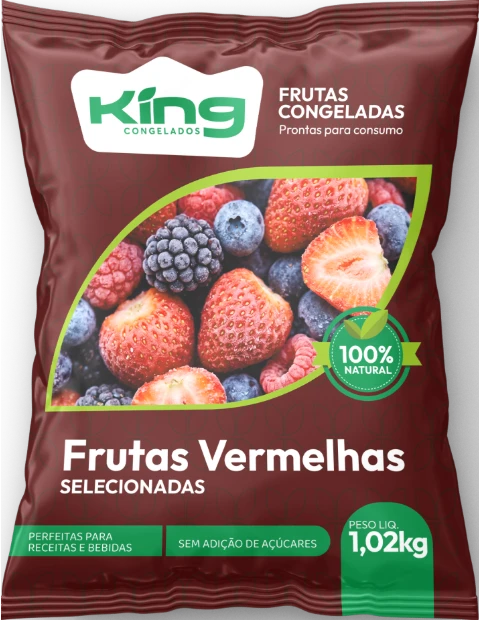
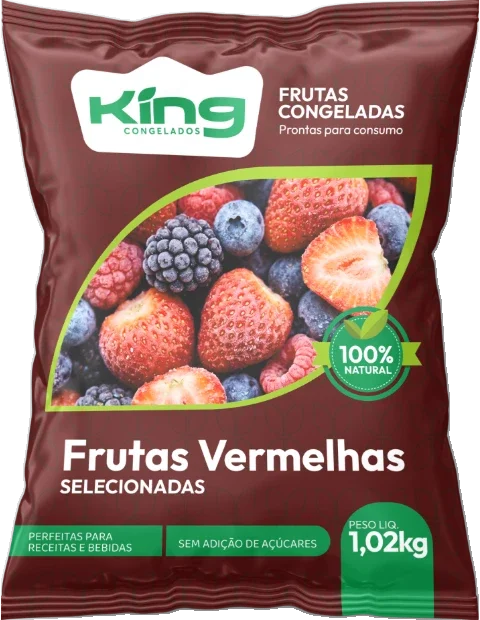
Embalagens: remove sombra embutida

diff --git a/diferenciais.html b/diferenciais.html
@@ -22,11 +22,11 @@
 <link rel="preconnect" href="https://fonts.googleapis.com">
 <link rel="preconnect" href="https://fonts.gstatic.com" crossorigin>
 <link href="https://fonts.googleapis.com/css2?family=Outfit:wght@300;400;500;600;700;800&display=swap" rel="stylesheet">
-<link rel="stylesheet" href="assets/css/style.css?v=202611181455">
+<link rel="stylesheet" href="assets/css/style.css?v=202611181548">
 <link rel="icon" type="image/png" sizes="32x32" href="assets/img/marca/favicon.png">
 <link rel="apple-touch-icon" href="assets/img/marca/favicon.png">
-<script src="assets/js/i18n.js?v=202611181455"></script>
-<script src="assets/js/main.js?v=202611181455" defer></script>
+<script src="assets/js/i18n.js?v=202611181548"></script>
+<script src="assets/js/main.js?v=202611181548" defer></script>
 </head>
 <body data-page="diferenciais">
 

diff --git a/404.html b/404.html
@@ -10,11 +10,11 @@
 <link rel="preconnect" href="https://fonts.googleapis.com">
 <link rel="preconnect" href="https://fonts.gstatic.com" crossorigin>
 <link href="https://fonts.googleapis.com/css2?family=Outfit:wght@300;400;500;600;700;800&display=swap" rel="stylesheet">
-<link rel="stylesheet" href="/assets/css/style.css?v=202611181455">
+<link rel="stylesheet" href="/assets/css/style.css?v=202611181548">
 <link rel="icon" type="image/png" sizes="32x32" href="/assets/img/marca/favicon.png">
 <link rel="apple-touch-icon" href="/assets/img/marca/favicon.png">
-<script src="/assets/js/i18n.js?v=202611181455"></script>
-<script src="/assets/js/main.js?v=202611181455" defer></script>
+<script src="/assets/js/i18n.js?v=202611181548"></script>
+<script src="/assets/js/main.js?v=202611181548" defer></script>
 </head>
 <body data-page="404">
 

diff --git a/politica-de-privacidade.html b/politica-de-privacidade.html
@@ -22,11 +22,11 @@
 <link rel="preconnect" href="https://fonts.googleapis.com">
 <link rel="preconnect" href="https://fonts.gstatic.com" crossorigin>
 <link href="https://fonts.googleapis.com/css2?family=Outfit:wght@300;400;500;600;700;800&display=swap" rel="stylesheet">
-<link rel="stylesheet" href="assets/css/style.css?v=202611181455">
+<link rel="stylesheet" href="assets/css/style.css?v=202611181548">
 <link rel="icon" type="image/png" sizes="32x32" href="assets/img/marca/favicon.png">
 <link rel="apple-touch-icon" href="assets/img/marca/favicon.png">
-<script src="assets/js/i18n.js?v=202611181455"></script>
-<script src="assets/js/main.js?v=202611181455" defer></script>
+<script src="assets/js/i18n.js?v=202611181548"></script>
+<script src="assets/js/main.js?v=202611181548" defer></script>
 </head>
 <body data-page="privacidade">
 

diff --git a/quem-somos.html b/quem-somos.html
@@ -22,11 +22,11 @@
 <link rel="preconnect" href="https://fonts.googleapis.com">
 <link rel="preconnect" href="https://fonts.gstatic.com" crossorigin>
 <link href="https://fonts.googleapis.com/css2?family=Outfit:wght@300;400;500;600;700;800&display=swap" rel="stylesheet">
-<link rel="stylesheet" href="assets/css/style.css?v=202611181455">
+<link rel="stylesheet" href="assets/css/style.css?v=202611181548">
 <link rel="icon" type="image/png" sizes="32x32" href="assets/img/marca/favicon.png">
 <link rel="apple-touch-icon" href="assets/img/marca/favicon.png">
-<script src="assets/js/i18n.js?v=202611181455"></script>
-<script src="assets/js/main.js?v=202611181455" defer></script>
+<script src="assets/js/i18n.js?v=202611181548"></script>
+<script src="assets/js/main.js?v=202611181548" defer></script>
 </head>
 <body data-page="quem-somos">
 

diff --git a/produtos.html b/produtos.html
@@ -22,11 +22,11 @@
 <link rel="preconnect" href="https://fonts.googleapis.com">
 <link rel="preconnect" href="https://fonts.gstatic.com" crossorigin>
 <link href="https://fonts.googleapis.com/css2?family=Outfit:wght@300;400;500;600;700;800&display=swap" rel="stylesheet">
-<link rel="stylesheet" href="assets/css/style.css?v=202611181455">
+<link rel="stylesheet" href="assets/css/style.css?v=202611181548">
 <link rel="icon" type="image/png" sizes="32x32" href="assets/img/marca/favicon.png">
 <link rel="apple-touch-icon" href="assets/img/marca/favicon.png">
-<script src="assets/js/i18n.js?v=202611181455"></script>
-<script src="assets/js/main.js?v=202611181455" defer></script>
+<script src="assets/js/i18n.js?v=202611181548"></script>
+<script src="assets/js/main.js?v=202611181548" defer></script>
 </head>
 <body data-page="produtos">
 

diff --git a/contato.html b/contato.html
@@ -23,11 +23,11 @@
 <link rel="preconnect" href="https://fonts.googleapis.com">
 <link rel="preconnect" href="https://fonts.gstatic.com" crossorigin>
 <link href="https://fonts.googleapis.com/css2?family=Outfit:wght@300;400;500;600;700;800&display=swap" rel="stylesheet">
-<link rel="stylesheet" href="assets/css/style.css?v=202611181455">
+<link rel="stylesheet" href="assets/css/style.css?v=202611181548">
 <link rel="icon" type="image/png" sizes="32x32" href="assets/img/marca/favicon.png">
 <link rel="apple-touch-icon" href="assets/img/marca/favicon.png">
-<script src="assets/js/i18n.js?v=202611181455"></script>
-<script src="assets/js/main.js?v=202611181455" defer></script>
+<script src="assets/js/i18n.js?v=202611181548"></script>
+<script src="assets/js/main.js?v=202611181548" defer></script>
 </head>
 <body data-page="contato">
 

diff --git a/politica-de-cookies.html b/politica-de-cookies.html
@@ -22,11 +22,11 @@
 <link rel="preconnect" href="https://fonts.googleapis.com">
 <link rel="preconnect" href="https://fonts.gstatic.com" crossorigin>
 <link href="https://fonts.googleapis.com/css2?family=Outfit:wght@300;400;500;600;700;800&display=swap" rel="stylesheet">
-<link rel="stylesheet" href="assets/css/style.css?v=202611181455">
+<link rel="stylesheet" href="assets/css/style.css?v=202611181548">
 <link rel="icon" type="image/png" sizes="32x32" href="assets/img/marca/favicon.png">
 <link rel="apple-touch-icon" href="assets/img/marca/favicon.png">
-<script src="assets/js/i18n.js?v=202611181455"></script>
-<script src="assets/js/main.js?v=202611181455" defer></script>
+<script src="assets/js/i18n.js?v=202611181548"></script>
+<script src="assets/js/main.js?v=202611181548" defer></script>
 </head>
 <body data-page="cookies">
 

diff --git a/index.html b/index.html
@@ -23,11 +23,11 @@
 <link rel="preconnect" href="https://fonts.googleapis.com">
 <link rel="preconnect" href="https://fonts.gstatic.com" crossorigin>
 <link href="https://fonts.googleapis.com/css2?family=Outfit:wght@300;400;500;600;700;800&display=swap" rel="stylesheet">
-<link rel="stylesheet" href="assets/css/style.css?v=202611181455">
+<link rel="stylesheet" href="assets/css/style.css?v=202611181548">
 <link rel="icon" type="image/png" sizes="32x32" href="assets/img/marca/favicon.png">
 <link rel="apple-touch-icon" href="assets/img/marca/favicon.png">
-<script src="assets/js/i18n.js?v=202611181455"></script>
-<script src="assets/js/main.js?v=202611181455" defer></script>
+<script src="assets/js/i18n.js?v=202611181548"></script>
+<script src="assets/js/main.js?v=202611181548" defer></script>
 </head>
 <body data-page="inicio">
 

diff --git a/termos-de-uso.html b/termos-de-uso.html
@@ -22,11 +22,11 @@
 <link rel="preconnect" href="https://fonts.googleapis.com">
 <link rel="preconnect" href="https://fonts.gstatic.com" crossorigin>
 <link href="https://fonts.googleapis.com/css2?family=Outfit:wght@300;400;500;600;700;800&display=swap" rel="stylesheet">
-<link rel="stylesheet" href="assets/css/style.css?v=202611181455">
+<link rel="stylesheet" href="assets/css/style.css?v=202611181548">
 <link rel="icon" type="image/png" sizes="32x32" href="assets/img/marca/favicon.png">
 <link rel="apple-touch-icon" href="assets/img/marca/favicon.png">
-<script src="assets/js/i18n.js?v=202611181455"></script>
-<script src="assets/js/main.js?v=202611181455" defer></script>
+<script src="assets/js/i18n.js?v=202611181548"></script>
+<script src="assets/js/main.js?v=202611181548" defer></script>
 </head>
 <body data-page="termos">
 
